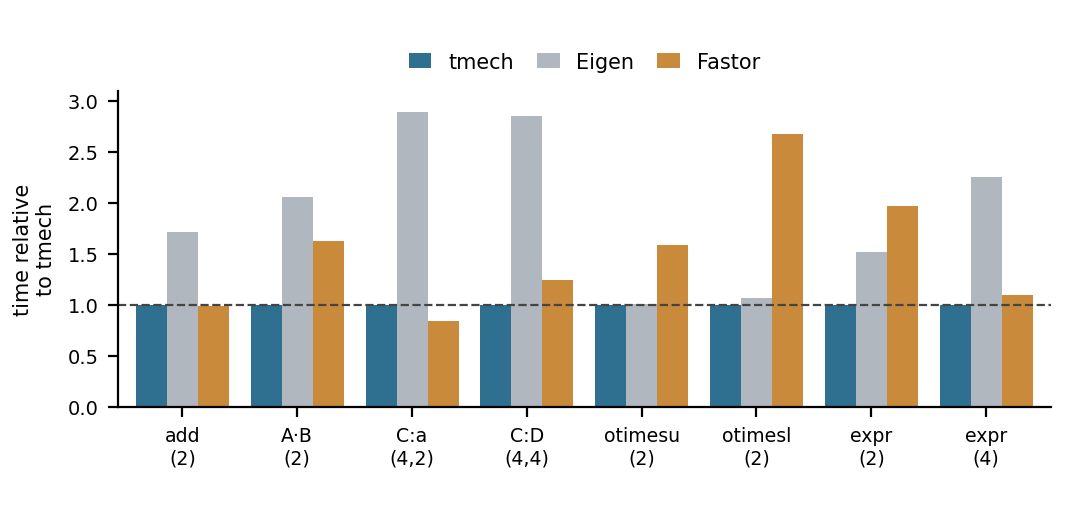
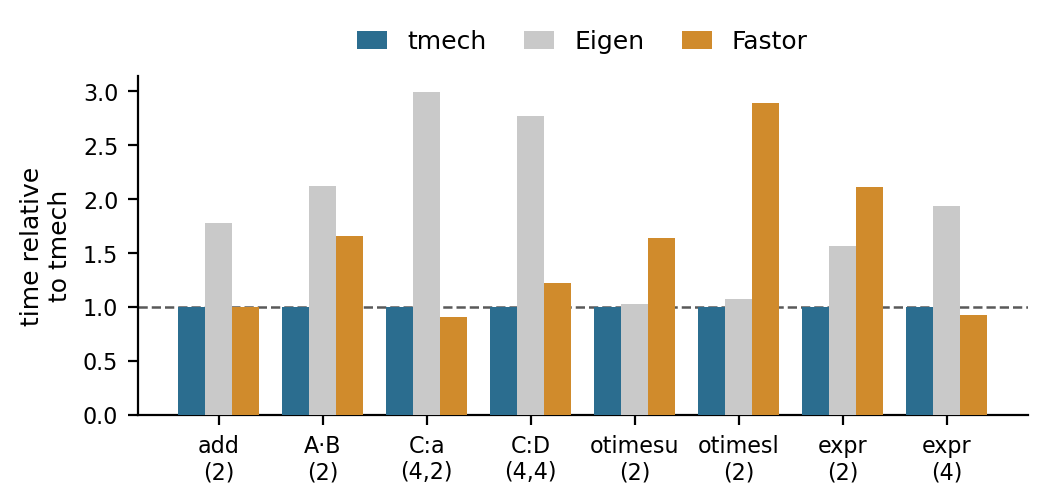
paper: regenerate benchmark figure on final code; add environment to caption
Regenerate paper/paper_benchmark.png from a fresh benchmark run on the merged
master (via scripts/make_paper_figure.py) and record the measurement
environment in the Figure 1 caption: SIMD build via xsimd, GCC 13.3, AMD
Ryzen 7 PRO 6850U, Ubuntu 24.04 / Linux 6.17. The results are within noise of
the previous figure and still support the text (tmech faster than Eigen on
every operation, up to ~3x; competitive with Fastor). Addresses #19.

Changed region(s): [[0.0, 0.1488, 0.978, 0.9524], [0.3362, 0.0595, 0.7641, 0.1488]]

diff --git a/paper/paper.md b/paper/paper.md
@@ -114,9 +114,10 @@ small factor on the rest. Benchmark sources and full reports are provided in the
 repository.
 
 ![Execution time on representative tensor operations, relative to `tmech`
-(lower is faster; SIMD build, single x86-64 machine). `A·B` is a single
-contraction; `C:a` and `C:D` are fourth-order double contractions with a
-second- and fourth-order tensor, respectively; `expr` is a compound
+(lower is faster; SIMD build via xsimd, GCC 13.3 on an AMD Ryzen 7 PRO 6850U,
+Ubuntu 24.04 / Linux 6.17, single machine). `A·B` is a single contraction;
+`C:a` and `C:D` are fourth-order double contractions with a second- and
+fourth-order tensor, respectively; `expr` is a compound
 expression.\label{fig:bench}](paper_benchmark.png)
 
 # AI usage disclosure